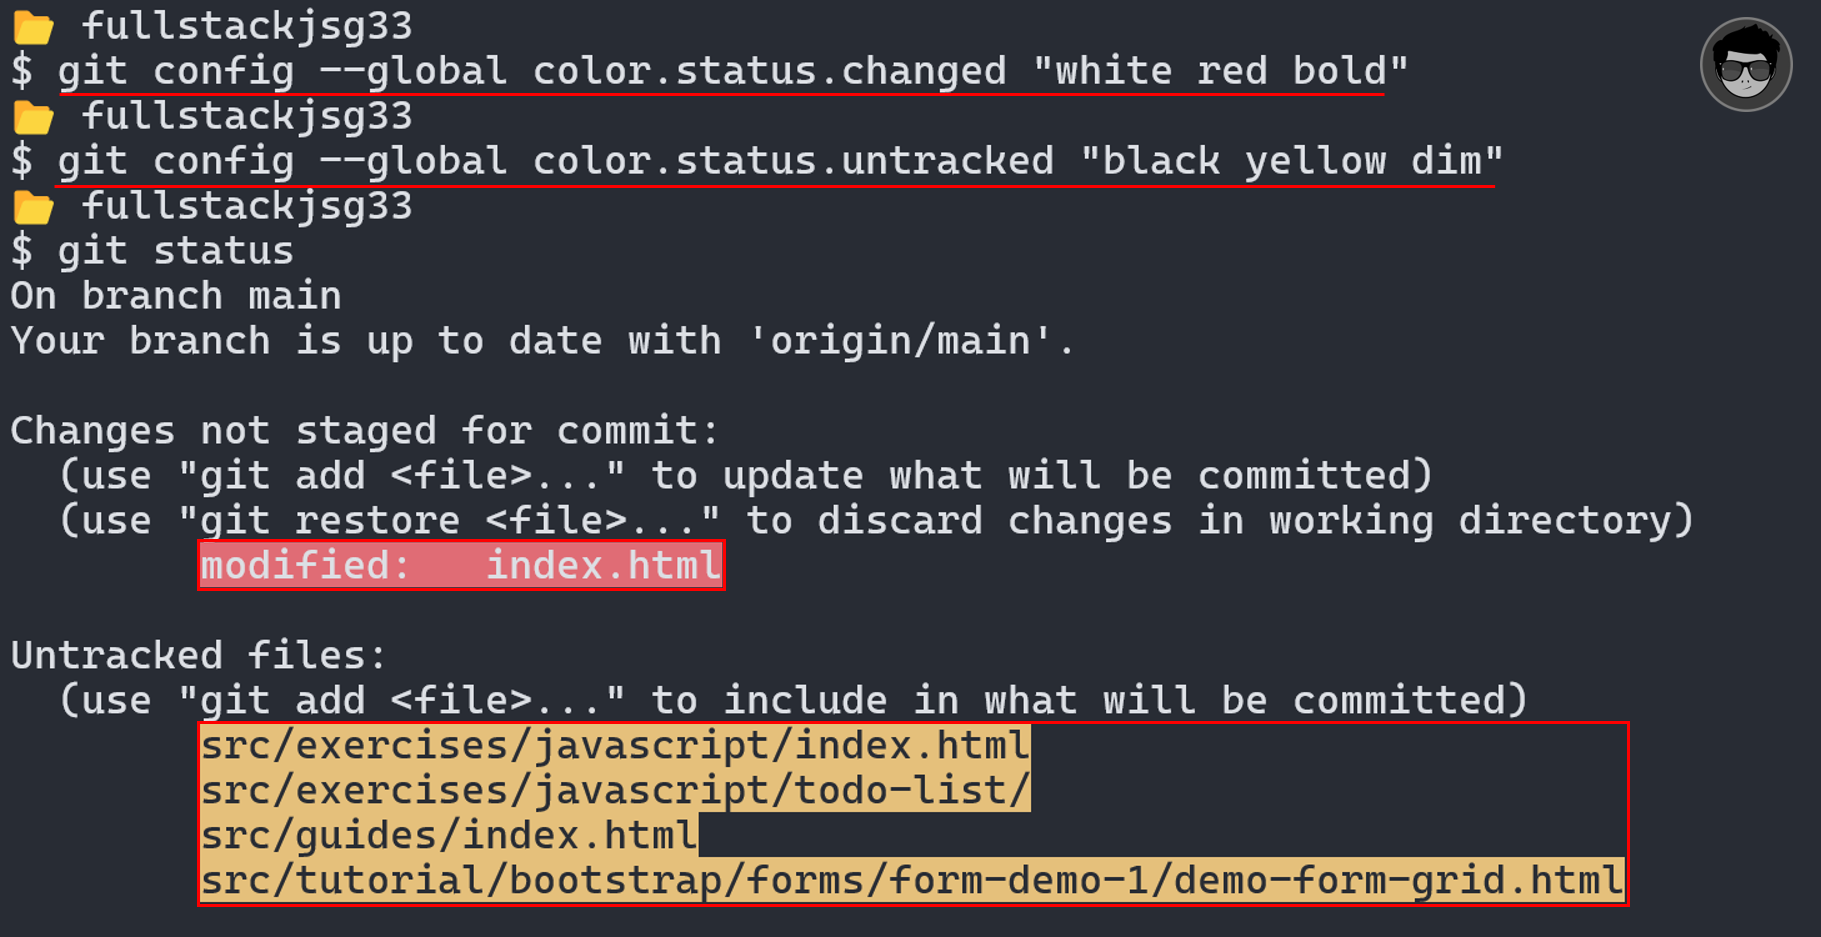
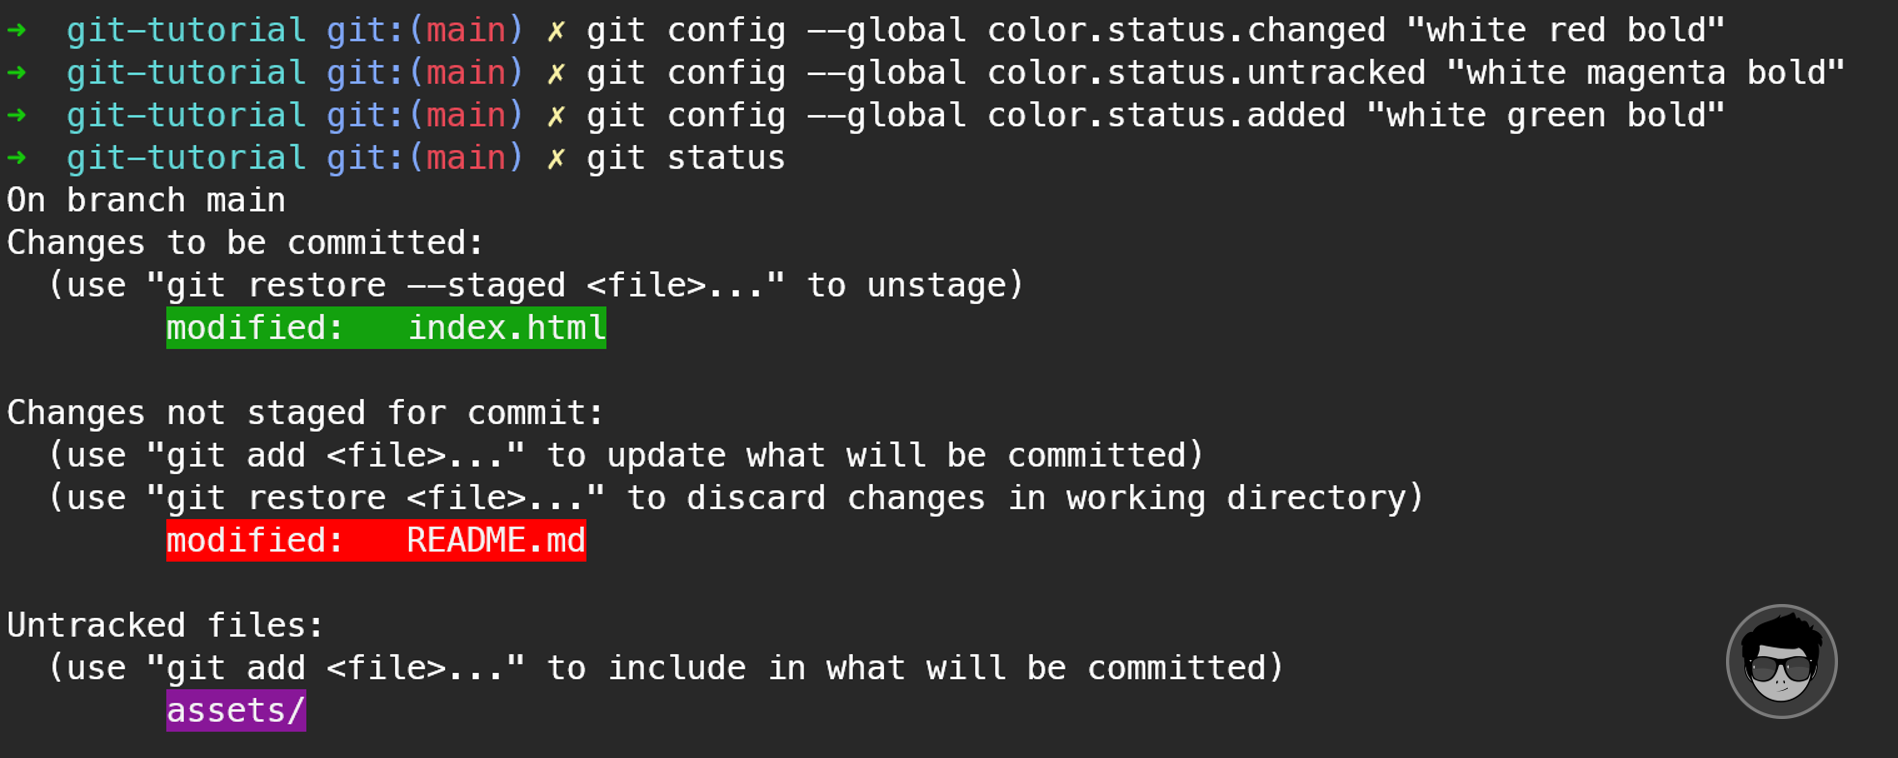
up-style

Changed region(s): [[0.0, 0.0, 0.9841, 0.971]]

diff --git a/src/guides/git/fast-guide/index.html b/src/guides/git/fast-guide/index.html
@@ -4,10 +4,9 @@
 <head>
   <meta charset="utf-8">
   <meta name="viewport" content="width=device-width, initial-scale=1">
-
   <link rel="stylesheet" href="../../../public/css/docs.css">
   <link rel="stylesheet" href="../../../public/css/themes/overlook.css">
-
+  <!-- bootstrap -->
   <title>GIT guía rápida</title>
 </head>
 
@@ -128,17 +127,16 @@
         href="#configurar-editor" title="Permanent link">&#9875;</a></h3>
     <p><strong>Configurar VS code como el editor por defecto para git</strong></p>
     <div class="highlight">
-      <pre><span class="nt">git</span> config --global core.editor <span class="s2">&quot;code --wait&quot;</span> <i class="fa-solid fa-clone" onclick="{copy_clipboard('git config --global core.editor code --wait')}"></i>
+      <pre><span class="nt">git</span> config --global core.editor <span class="s2">&quot;code --wait&quot;</span> <i class="fa-solid fa-clone" onclick='{copy_clipboard(`git config --global core.editor "code --wait"`)}'></i>
 </pre>
     </div>
-
     <blockquote>
       <p>La opción <code>--wait</code> es para que la terminal se quede esperando hasta que cerremos el editor de texto.
       </p>
     </blockquote>
     <p><strong>Ver el archivo de configuración con el editor por defecto</strong><br />
     <div class="highlight">
-      <pre><span class="nt">git</span> config --global -e
+      <pre><span class="nt">git</span> config --global -e <i class="fa-solid fa-clone" onclick='{copy_clipboard(`git config --global -e`)}'></i>
 </pre>
     </div>
     <p align="center">
@@ -214,22 +212,21 @@ color.status
       <pre><span class="nt">git</span> config --global color.status <span class="nb">false</span>
 </pre>
     </div>
-
     <p>Además, cada uno de los comandos tiene parámetros adicionales para asignar colores a partes específicas, por si
-      quieres pecisar aún más.</p>
+      quieres precisar aún más.</p>
     <p>Podemos ajustar a cualquiera de los siguientes colores: </p>
-    <ul>
-      <li><code>normal</code>, <code>black</code> (negro)</li>
-      <li><code>red</code> (rojo)</li>
-      <li><code>green</code> (verde)</li>
-      <li><code>yellow</code> (amarillo)</li>
-      <li><code>blue</code> (azul)</li>
-      <li><code>magenta</code> (magenta)</li>
-      <li><code>cyan</code> (cian)</li>
-      <li><code>white</code> (blanco)</li>
+    <ul style="display: flex; list-style: none; padding:0; justify-content: space-evenly;">
+      <li><code>black</code> (⬛)</li>
+      <li><code>red</code> (🔴)</li>
+      <li><code>green</code> (🍏)</li>
+      <li><code>yellow</code> (💛)</li>
+      <li><code>blue</code> (🔷)</li>
+      <li><code>magenta</code> (💜)</li>
+      <li><code>cyan</code> (💧)</li>
+      <li><code>white</code> (⬜)</li><br>
     </ul>
     <p>También se pueden aplicar atributos como:</p>
-    <ul>
+    <ul style="display: flex; list-style: none; padding:0; justify-content: space-evenly;">
       <li><code>bold</code> (negrita)</li>
       <li><code>dim</code> (tenue) </li>
       <li><code>ul</code> (subrayado) </li>
@@ -247,22 +244,29 @@ color.status
       <img src="assets/color.diff.png" alt="diff color">
     </p>
 
-    <p>Otro ejemplo para cambiar los colores del comando <code>status</code> para la salida de
-      <strong>color.status.changed</strong> (cuando cun archivo a cambiado de estado) y
-      <strong>color.status.untracked</strong> (cuando un archivo no es seguido por git):
+    <p>Otro ejemplo para cambiar los colores del comando <strong>status</strong> para la salida de
+      <strong>color.status.changed</strong> (cuando un archivo a cambiado de estado),
+      <strong>color.status.untracked</strong> (cuando un archivo no es seguido por git) y
+      <strong>color.status.added</strong> (cuando un archivo es agregado al 'stage area'):
     </p>
     <div class="highlight">
       <pre><span class="nt">git</span> config --global color.status.changed <span class="s2">&quot;white red bold&quot;</span> <i class="fa-solid fa-clone" onclick='{copy_clipboard(`git config --global color.status.changed "white red bold"`)}'></i></pre>
     </div>
     <div class="highlight">
-      <pre><span class="nt">git</span> config --global color.status.untracked <span class="s2">&quot;black yellow dim&quot;</span></pre>
+      <pre><span class="nt">git</span> config --global color.status.untracked <span class="s2">&quot;white magenta bold&quot;</span> <i class="fa-solid fa-clone"
+        onclick='{copy_clipboard(`git config --global color.status.untracked "white magenta bold"`)}'></i></pre>
+    </div>
+    <div class="highlight">
+      <pre><span class="nt">git</span> config --global color.status.added <span class="s2">&quot;white green bold&quot;</span> <i class="fa-solid fa-clone"
+            onclick='{copy_clipboard(`git config --global color.status.added "white green bold"`)}'></i></pre>
     </div>
     <p align="center">
       <img src="assets/color.status.png" alt="status color">
     </p>
 
     <p>Recordemos que cualquier mensaje de un comando de git se puede controlar mediante el archivo
-      <code>.gitconfig</code>. Podemos abrir el archivo con el comando <code>git config --global -e</code> y podemos
+      <strong>.gitconfig</strong>. Podemos abrir el archivo con el comando <code><b>git</b> config --global -e</code> y
+      podemos
       indicar colores usando el siguiente formato:
     </p>
     <div class="highlight">
@@ -366,7 +370,7 @@ color.status
       <pre>📂 .git
 ├── 📂 branches
 ├── ⚙ config <span class="c1"># contiene las opciones de configuración de este repositorio</span>
-├── 📄 description 
+├── 📄 description
 ├── 📄 HEAD <span class="c1"># contiene la referencia del commit a partir del cual se trabaja</span>
 ├── 📂 hooks <span class="c1"># contiene los script que se ejecutan en determinado momento</span>
 │   ├── 📄 applypatch-msg.sample
